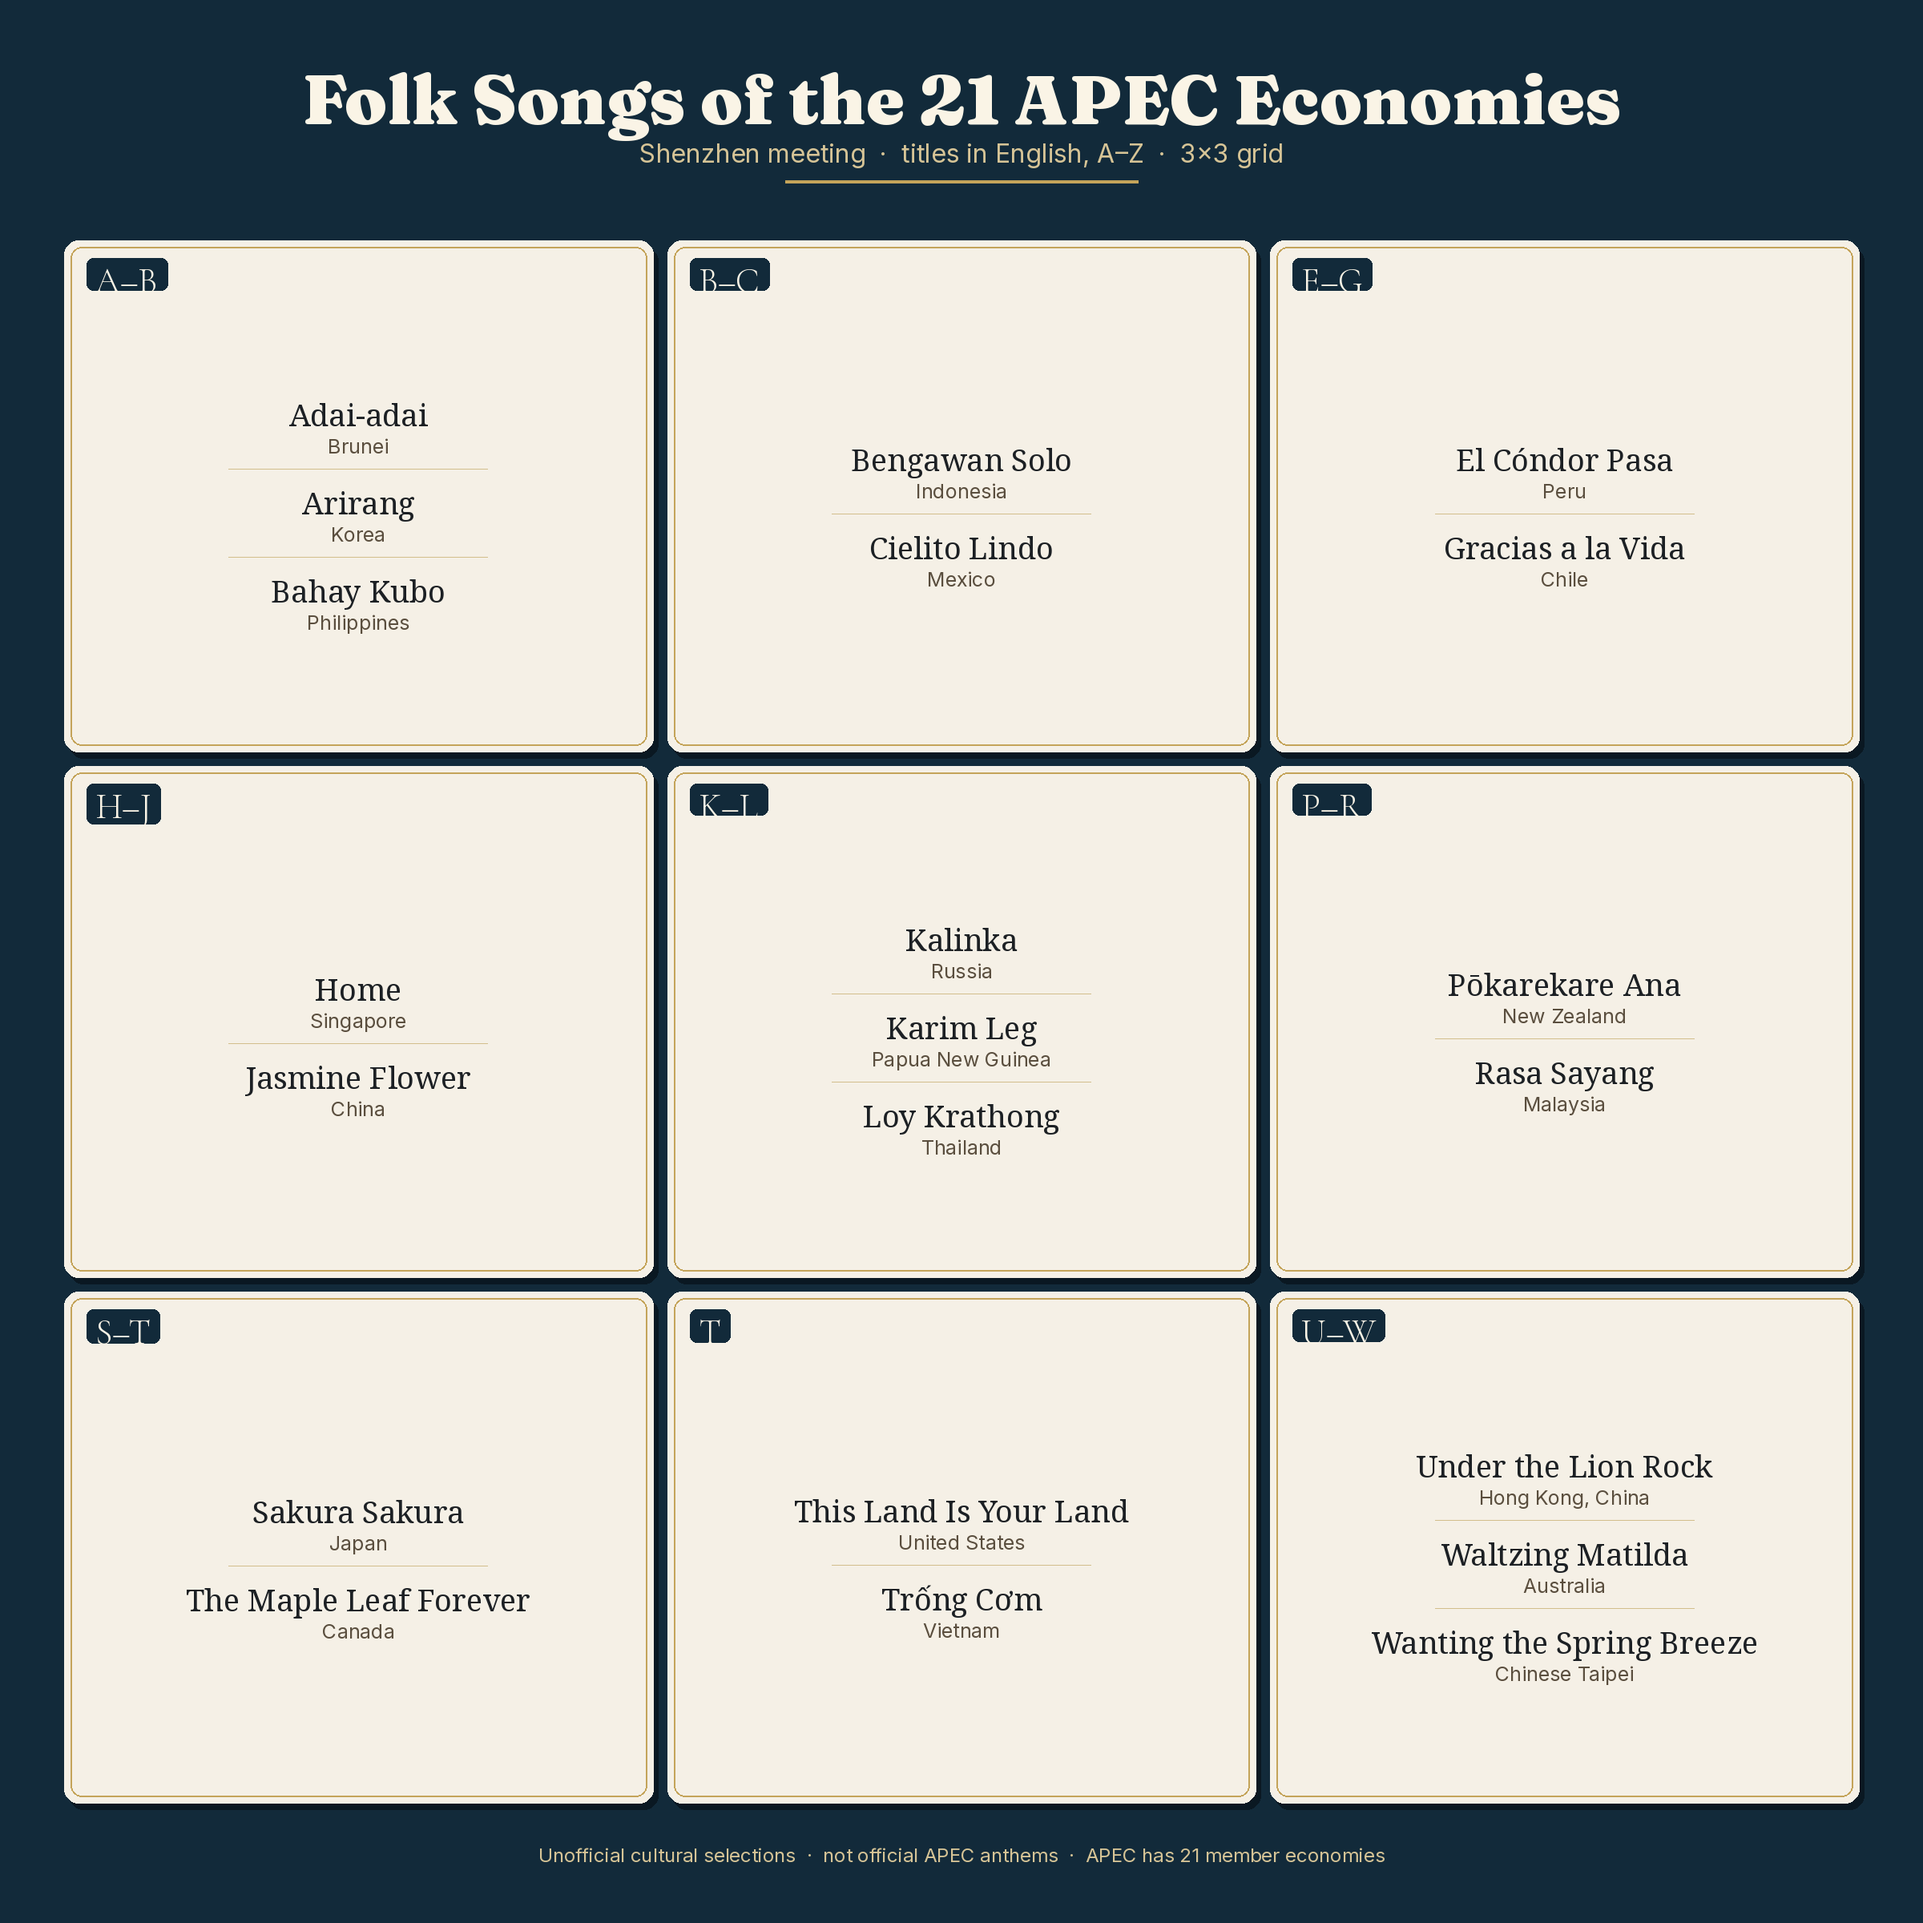
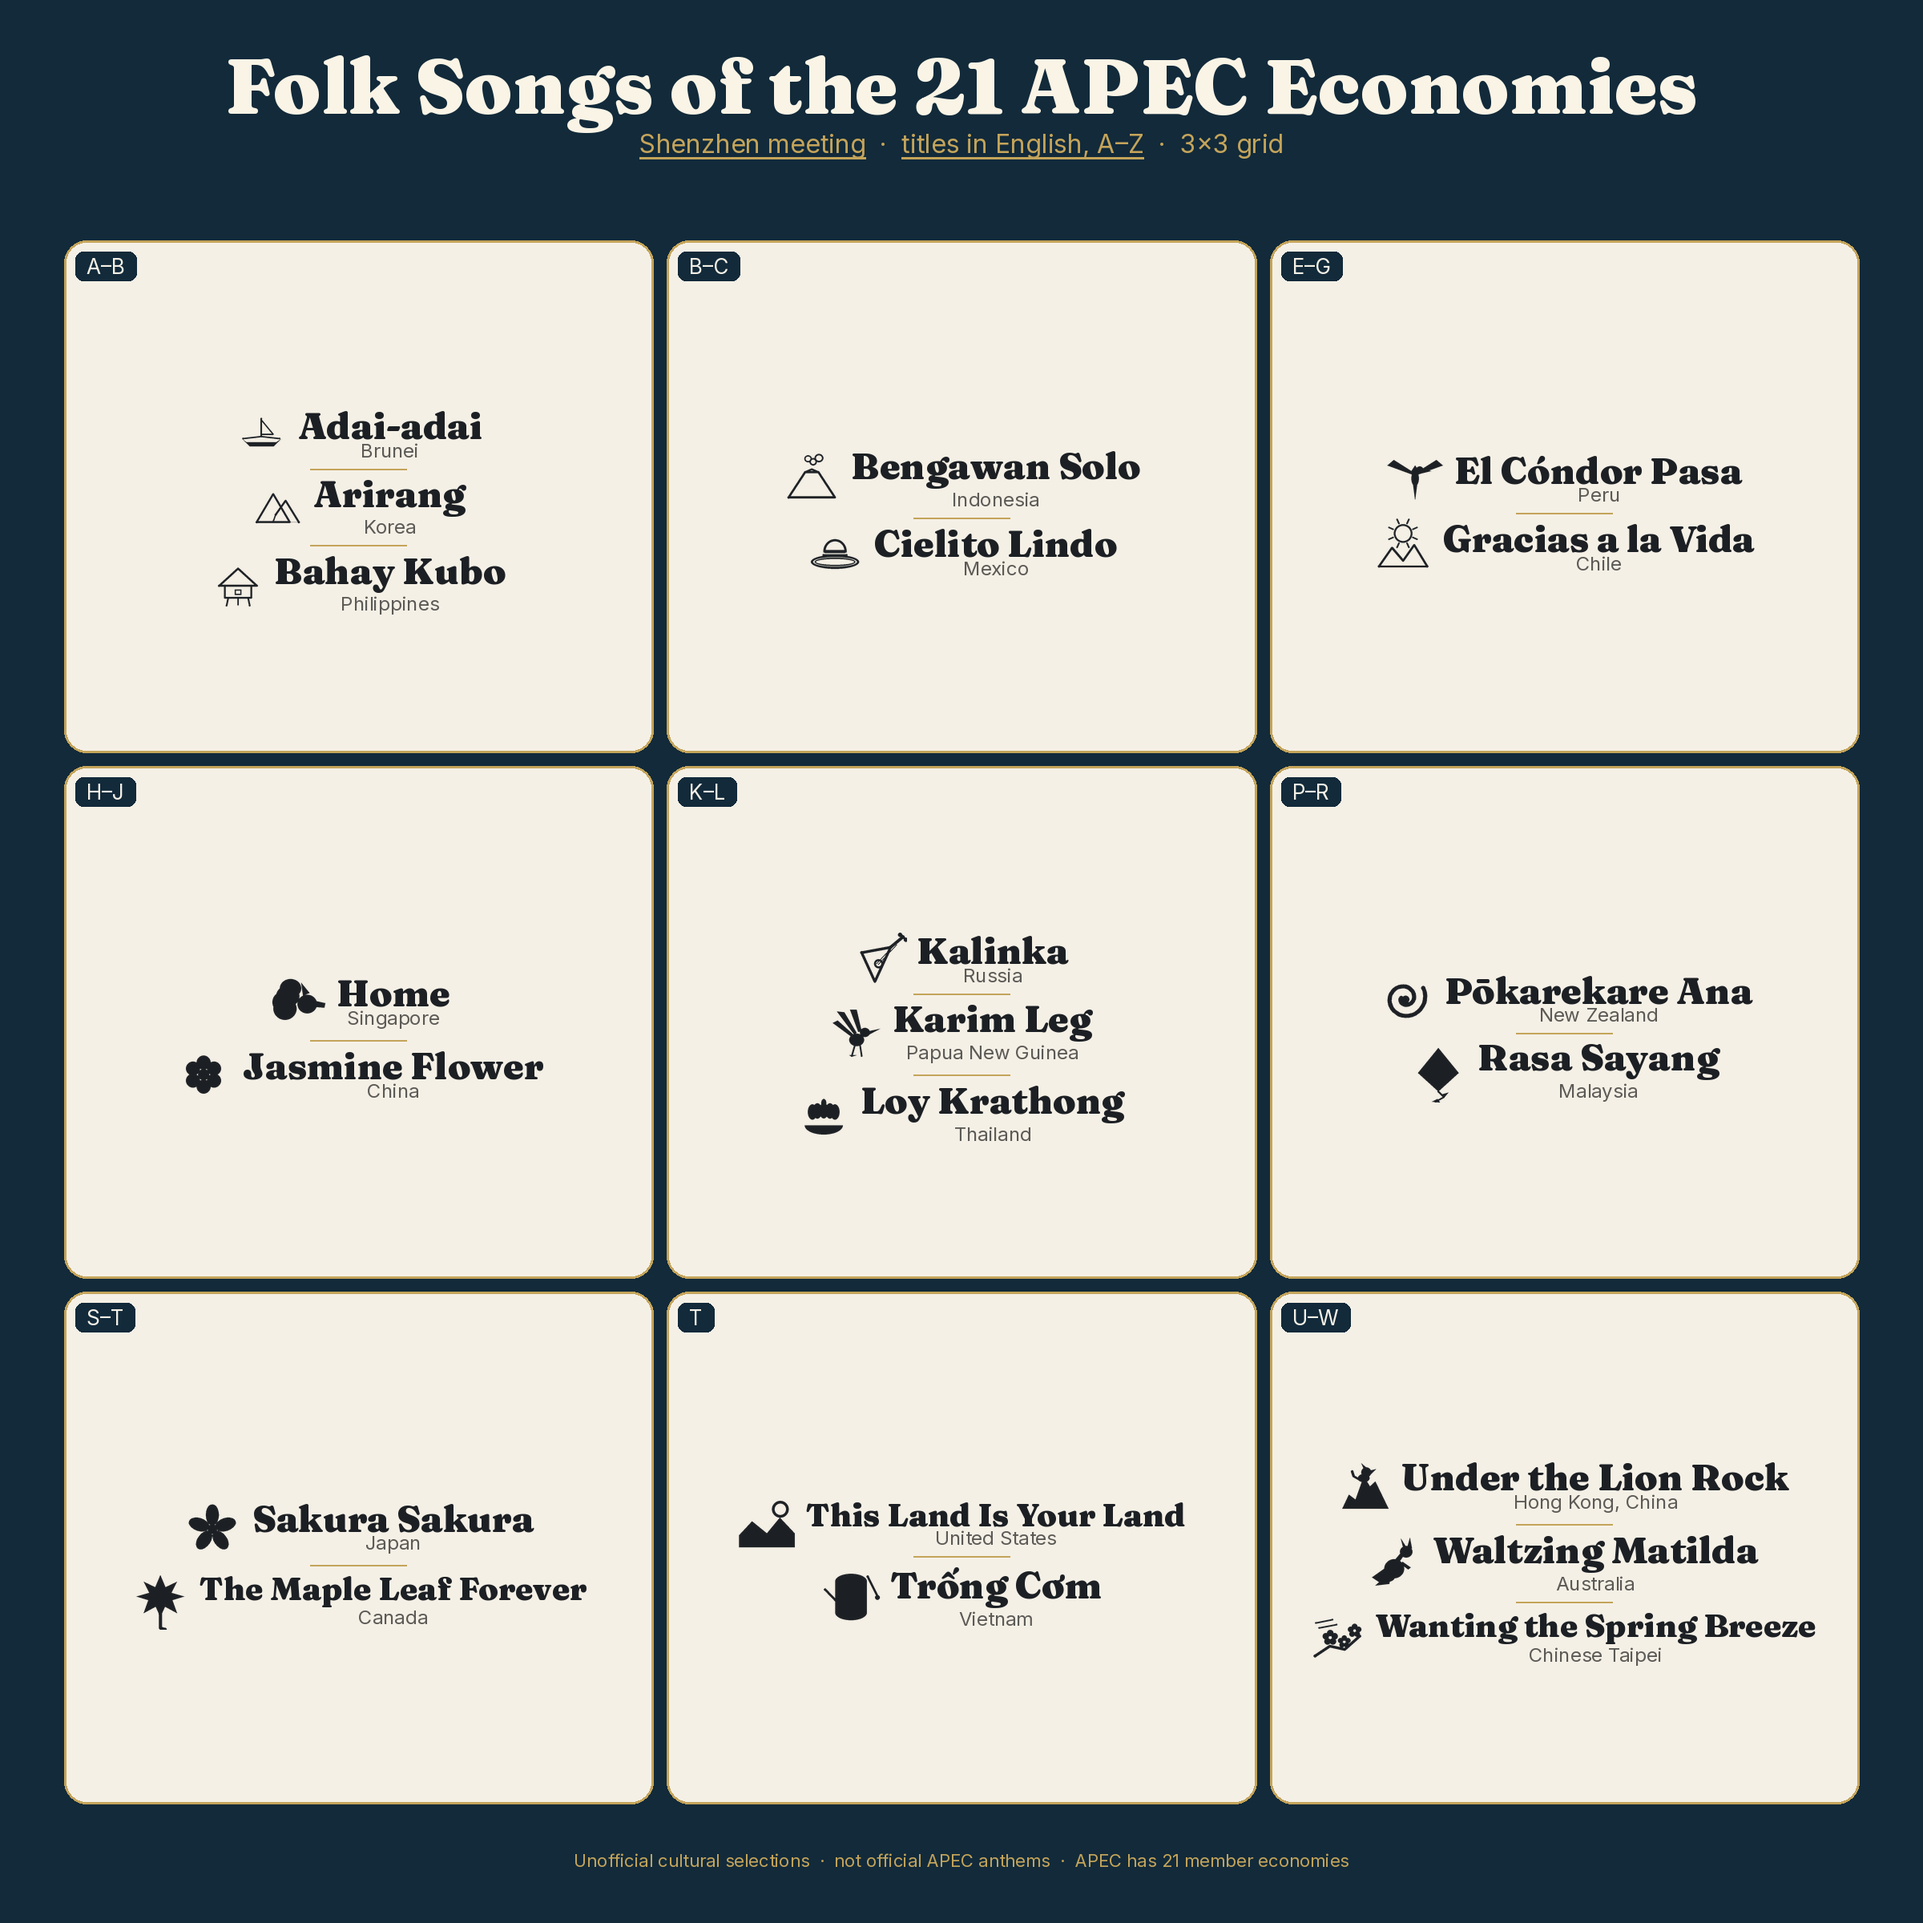
Add a pictogram to each cell of the 21 APEC folk-song grid.
Keep the original gold-and-cream 3x3 layout and A-to-Z English titles, and cache-bust the page image so phones pick up the update.

diff --git a/index.html b/index.html
@@ -18,8 +18,8 @@
   <h1>APEC Shenzhen Meeting Grids</h1>
   <p>Tap and hold each image to save it to your album.</p>
   <figure>
-    <a href="apec-folk-songs-9grid.png">
-      <img src="apec-folk-songs-9grid.png" alt="3x3 grid of 21 APEC folk songs">
+    <a href="apec-folk-songs-9grid.png?v=icons">
+      <img src="apec-folk-songs-9grid.png?v=icons" alt="3x3 grid of 21 APEC folk songs">
     </a>
     <figcaption>Folk songs of the 21 APEC economies</figcaption>
   </figure>
